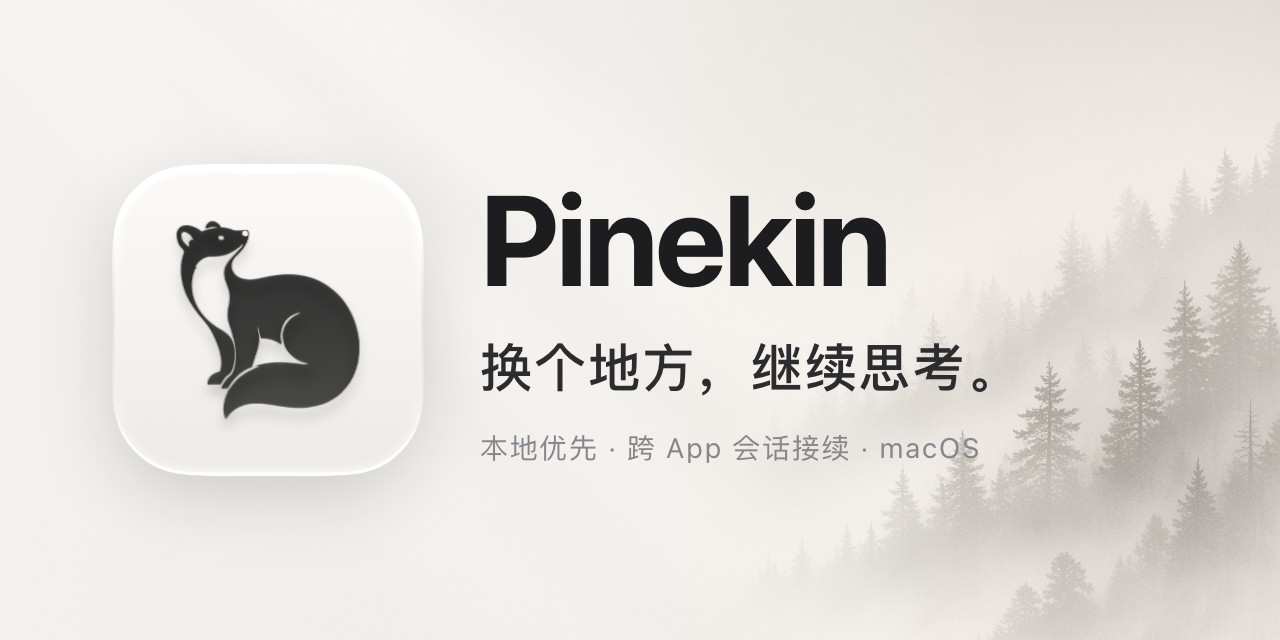
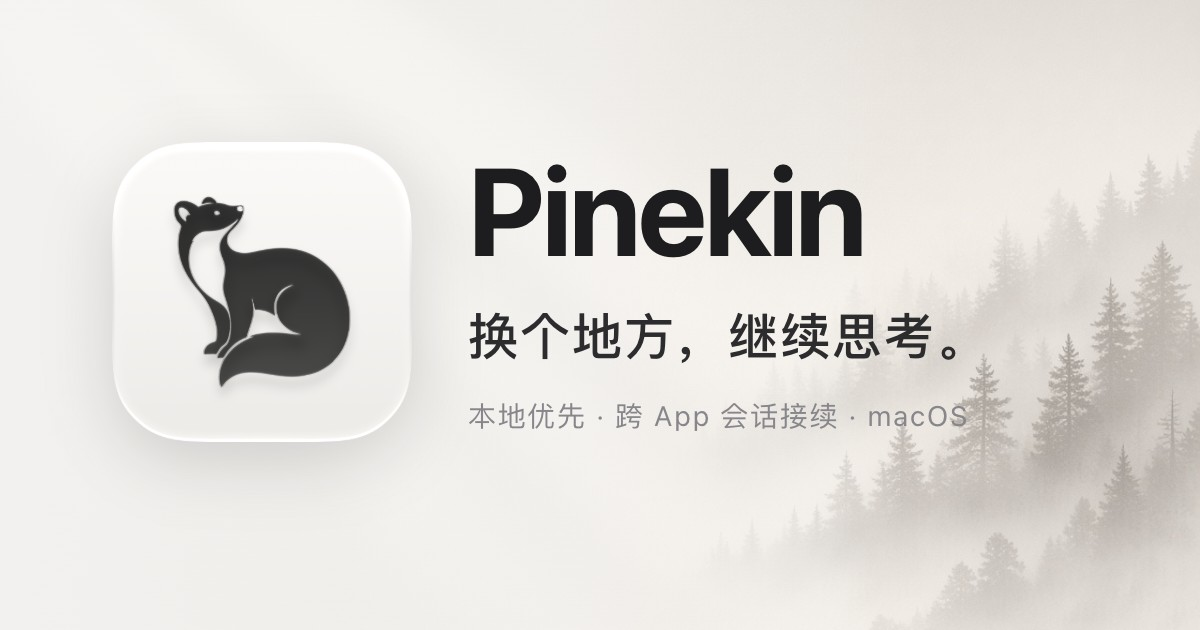
docs: Social preview 改为 1200×630 并避开卡片底部标题条

diff --git a/docs/app-icon.md b/docs/app-icon.md
@@ -95,7 +95,7 @@ README 页头改用横幅，替代旧扁平版 `pinekin-app-icon.svg`。
 | --- | --- |
 | `design/brand/banner/pinekin-banner-bg.jpg` | 1280×720 氛围背景：右侧雾中松林、左侧留白；AI 生成（grok-imagine-image-2.0），提示词明确不含动物、文字和标志 |
 | `design/brand/banner/pinekin-readme-banner.jpg` | 1600×600（8:3）成品，README 以 `width="100%"` 引用 |
-| `design/brand/banner/pinekin-social-preview.jpg` | 1280×640（2:1）仓库 Social preview，同一排版放大图标与字号；需在 GitHub 仓库 Settings → General → Social preview 手动上传，API 不支持设置 |
+| `design/brand/banner/pinekin-social-preview.jpg` | 1200×630（1.91:1，社交平台 og:image 通用比例）仓库 Social preview，内容略上移以避开 X 卡片底部标题条；需在 GitHub 仓库 Settings → General → Social preview 手动上传，API 不支持设置 |
 | `scripts/generate-readme-banner.mjs` | 用 HTML 排版定稿图标与文字，再由本机 Google Chrome（Playwright `channel: 'chrome'`）以 2× 截图同时输出以上两张图 |
 
 - 松貂直接使用 `pinekin-icon-approved.png` 原图，只等比缩放并加外投影，AI 不参与重绘图标。
